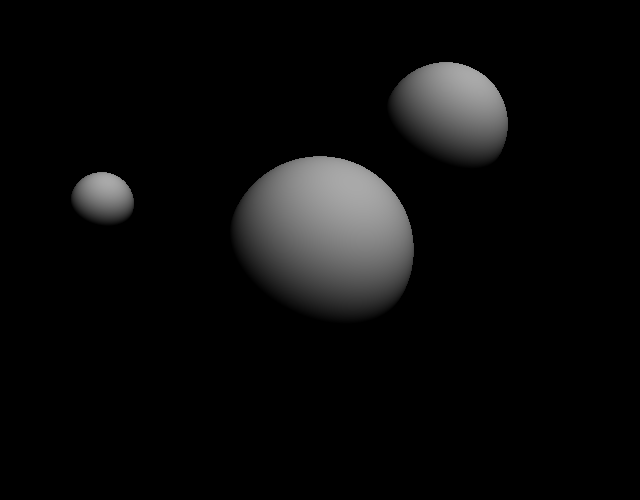
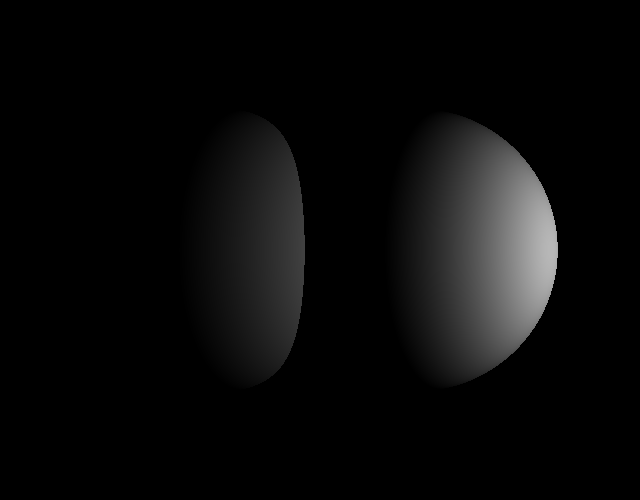
This butt has shadows! COMEDY GENIUS!

Changed region(s): [[0.3438, 0.12, 0.875, 0.78], [0.0938, 0.33, 0.2188, 0.45]]

diff --git a/main.go b/main.go
@@ -1,6 +1,7 @@
 package main
 
 import (
+	"fmt"
 	"image"
 	"image/color"
 	"image/draw"
@@ -33,7 +34,7 @@ type Sphere struct {
 
 type Triangle struct {
 	normals [3]Vector3
-	shape    Shape
+	shape   Shape
 }
 
 type Intersectable interface {
@@ -51,6 +52,9 @@ func (v Vector3) Mul(s float64) Vector3 {
 }
 
 func (v Vector3) Div(s float64) Vector3 {
+	if s == 0 {
+		panic("Div by zero!")
+	}
 	return Vector3{x: v.x / s, y: v.y / s, z: v.z / s}
 }
 
@@ -60,6 +64,10 @@ func (v Vector3) Add(b *Vector3) Vector3 {
 
 func (v Vector3) Sub(b *Vector3) Vector3 {
 	return Vector3{x: v.x - b.x, y: v.y - b.y, z: v.z - b.z}
+}
+
+func (v Vector3) Inv() Vector3 {
+	return Vector3{x: -v.x, y: -v.y, z: -v.z}
 }
 
 func (v Vector3) Dot(b *Vector3) float64 {
@@ -75,6 +83,29 @@ func (v Vector3) Normalize() Vector3 {
 		return v
 	}
 	return v.Mul(1 / v.Norm())
+}
+
+type LightProperties struct {
+	color     Vector3
+	intensity float64
+}
+
+type PointLight struct {
+	properties LightProperties
+	position   Vector3
+}
+
+type Illuminator interface {
+	Illuminate(point Vector3) (float64, Vector3, Vector3)
+}
+
+func (l PointLight) Illuminate(point Vector3) (float64, Vector3, Vector3) {
+	lightDirection := point.Sub(&l.position)
+	r2 := lightDirection.Norm()
+	distance := math.Sqrt(r2)
+	lightDirAttunated := lightDirection.Div(distance)
+	lightIntensity := l.properties.color.Mul(l.properties.intensity / (4 * math.Pi * r2))
+	return distance, lightDirAttunated, lightIntensity
 }
 
 func QuadricSolveReal(a float64, b float64, c float64) (bool, float64, float64) {
@@ -99,59 +130,96 @@ func QuadricSolveReal(a float64, b float64, c float64) (bool, float64, float64) 
 }
 
 func (s Sphere) Intersect(r *Ray) (bool, Intersection) {
-    rayOrigin := r.origin.Sub(&s.shape.position)
-    ray := Ray{origin: rayOrigin, direction: r.direction, mint: r.mint, maxt: r.maxt}
-    var A = ray.direction.Dot(&ray.direction)
-    var B = 2 * ray.direction.Dot(&ray.origin)
-    var C = ray.origin.Dot(&ray.origin) - s.radius*s.radius
-    solution, t1, t2 := QuadricSolveReal(A, B, C)
-    if !solution {
-        return false, Intersection{}
-    }
-    if t1 > ray.maxt || t2 < ray.mint {
-        return false, Intersection{}
-    }
-    thit := t1
-    if t1 < ray.mint {
-        thit = t2
-        if thit > ray.maxt {
-            return false, Intersection{}
-        }
-    }
-    phit := r.origin.Add(&r.direction).Mul(thit)
-    normal := phit.Sub(&s.shape.position)
-    return true, Intersection{point: phit, distance: thit, normal: normal}
+	rayOrigin := r.origin.Sub(&s.shape.position)
+	ray := Ray{origin: rayOrigin, direction: r.direction, mint: r.mint, maxt: r.maxt}
+	var A = ray.direction.Dot(&ray.direction)
+	var B = 2 * ray.direction.Dot(&ray.origin)
+	var C = ray.origin.Dot(&ray.origin) - s.radius*s.radius
+	solution, t1, t2 := QuadricSolveReal(A, B, C)
+	if !solution {
+		return false, Intersection{}
+	}
+	if t1 > ray.maxt || t2 < ray.mint {
+		return false, Intersection{}
+	}
+	thit := t1
+	if t1 < ray.mint {
+		thit = t2
+		if thit > ray.maxt {
+			return false, Intersection{}
+		}
+	}
+	phit := r.origin.Add(&r.direction).Mul(thit)
+	normal := phit.Sub(&s.shape.position).Normalize()
+	return true, Intersection{point: phit, distance: thit, normal: normal}
 }
 
 func (t Triangle) Intersect(r *Ray) (bool, Intersection) {
 	return true, Intersection{}
 }
 
-func Trace(ray *Ray, objects []Intersectable) Vector3 {
+func CastRay(ray *Ray, objects []Intersectable, lights []Illuminator) Vector3 {
+	intersection := Trace(ray, objects, 1000)
+	if (intersection == Intersection{}) {
+		return Vector3{}
+	}
+	surfaceColor := Vector3{}
+	for _, light := range lights {
+		distanceToLight, lightDirection, lightIntensity := light.Illuminate(intersection.point)
+		invLightDir := lightDirection.Inv().Normalize()
+		lightDirWithBias := invLightDir.Mul(0.001)
+		hitPointWithBias := intersection.point.Add(&lightDirWithBias)
+		shadowRay := Ray{origin: hitPointWithBias, direction: invLightDir, mint: 0, maxt: 1000}
+		lightIntersection := TraceShadowRays(&shadowRay, objects, distanceToLight)
+		if (lightIntersection != Intersection{}) {
+			continue
+		}
+		lightContribution := lightIntensity.Mul(math.Max(float64(0), intersection.normal.Dot(&invLightDir)))
+		surfaceColor = surfaceColor.Add(&lightContribution)
+	}
+	clamped := Vector3{x: math.Min(255, surfaceColor.x*255), y: math.Min(255, surfaceColor.y*255), z: math.Min(255, surfaceColor.z*255)}
+	return clamped
+}
+
+func Trace(ray *Ray, objects []Intersectable, tnear float64) Intersection {
 	var foremostObject = Intersection{}
-	var tnearest float64 = 1000
 	for _, object := range objects {
 		hit, intersection := object.Intersect(ray)
 		if hit {
-			if intersection.distance < tnearest {
-				tnearest = intersection.distance
+			if intersection.distance < tnear {
+				tnear = intersection.distance
 				foremostObject = intersection
 			}
 		}
 	}
-	if (foremostObject == Intersection{}) {
-		return Vector3{}
+	return foremostObject
+}
+
+func TraceShadowRays(ray *Ray, objects []Intersectable, distanceToLight float64) Intersection {
+	for _, object := range objects {
+		hit, intersection := object.Intersect(ray)
+		if hit && intersection.distance < distanceToLight {
+			return intersection
+		}
 	}
-	lightDirection := Vector3{x: 0.5, y: 1, z: -1}.Normalize()
-	surfaceColor := Vector3{x: 255, y: 255, z: 255}.Mul(math.Max(float64(0), foremostObject.normal.Dot(&lightDirection)))
-	return surfaceColor
+	return Intersection{}
 }
 
 func main() {
-	s1 := Sphere{radius: 1.5, shape: Shape{position: Vector3{x: -0.5, y: 0, z: 10}}}
-	s2 := Sphere{radius: 1.5, shape: Shape{position: Vector3{x: 0.5, y: 0, z: 10}}}
+	fmt.Println("lets trace!")
+	// Two boring spheres
+	//s1 := Sphere{radius: 1, shape: Shape{position: Vector3{x: 1, y: 0, z: 7.5}}}
+	//s2 := Sphere{radius: 1, shape: Shape{position: Vector3{x: -1, y: 0, z: 10}}}
+	// A butt
+	s1 := Sphere{radius: 1.5, shape: Shape{position: Vector3{x: 1, y: 0, z: 10}}}
+	s2 := Sphere{radius: 1.5, shape: Shape{position: Vector3{x: -1, y: 0, z: 10}}}
+
+	l1 := PointLight{
+		properties: LightProperties{color: Vector3{x: 255, y: 255, z: 255}, intensity: float64(1)},
+		position:   Vector3{x: 6, y: 0, z: 7}}
 
 	objects := []Intersectable{s1, s2}
+	lights := []Illuminator{l1}
 
 	var width int = 640
 	var height int = 500
@@ -172,7 +240,7 @@ func main() {
 				origin:    Vector3{x: 0, y: 0, z: 0},
 				direction: Vector3{xx, yy, 1}.Normalize(),
 				mint:      0, maxt: 1000}
-			pixel := Trace(&cameraRay, objects)
+			pixel := CastRay(&cameraRay, objects, lights)
 			if (pixel != Vector3{}) {
 				pixelColor := color.RGBA{uint8(pixel.x), uint8(pixel.y), uint8(pixel.z), 255}
 				m.Set(j, i, pixelColor)
